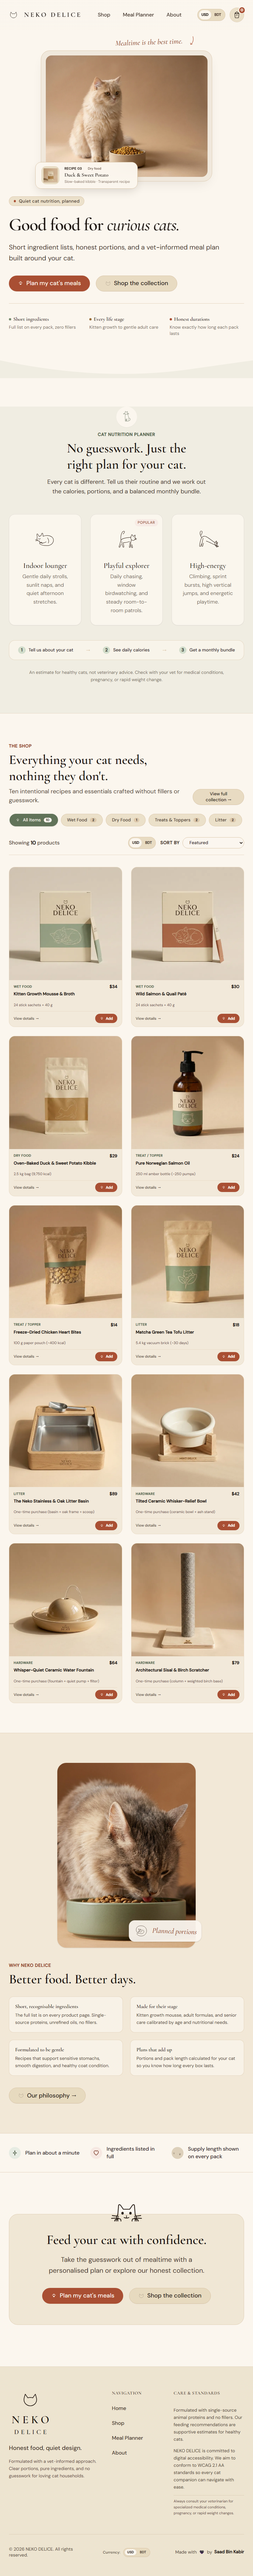
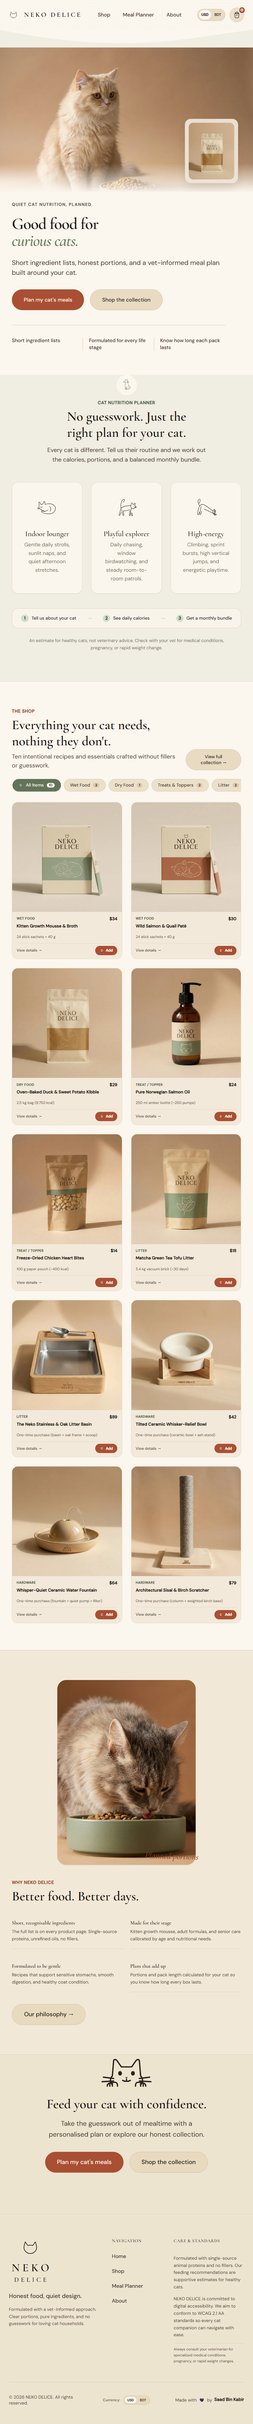
feat: premium hero

Changed region(s): [[0.0, 0.187, 1.0, 0.9974], [0.0, 0.0, 1.0, 0.187], [0.6562, 0.0, 0.7188, 0.0312]]

diff --git a/src/pages/Home.tsx b/src/pages/Home.tsx
@@ -5,7 +5,6 @@ import { Container } from '@/components/ui/Container'
 import { Heading } from '@/components/ui/Heading'
 import { Button } from '@/components/ui/Button'
 import { SiteImage } from '@/components/ui/SiteImage'
-import { ProductImage } from '@/components/ui/ProductImage'
 import { ProductCard } from '@/components/product/ProductCard'
 import { Annotation } from '@/components/ui/Annotation'
 import { Band } from '@/components/ui/Band'
@@ -225,144 +224,117 @@ export function HomePage() {
             ? {
                 src: heroImage.src,
                 srcset: heroImageSrcset,
-                sizes: '(max-width: 768px) 100vw, 50vw',
+                sizes: '(max-width: 1024px) 100vw, 58vw',
               }
             : undefined
         }
       />
 
       {/* 1. HERO SECTION (Real Cat Photography + Editorial Typography + Product Pouch) */}
-      <section id="hero" className="relative pt-8 sm:pt-14 pb-12 sm:pb-20 overflow-hidden bg-cream-50">
-        <Container>
-          <div className="grid grid-cols-1 lg:grid-cols-12 items-center gap-10 lg:gap-14">
-            {/* Left Column: Headlines, CTAs & Pillars (No Reveal wrapping to avoid LCP delay) */}
-            <div className="lg:col-span-7 flex flex-col items-start order-2 lg:order-1">
-              <div className="inline-flex items-center gap-2 px-3 py-1 rounded-full bg-oat-100/70 border border-sand-300/80 text-espresso-800 text-xs font-medium tracking-wide mb-6">
-                <span className="w-1.5 h-1.5 rounded-full bg-terracotta-600" aria-hidden="true" />
-                <span>Quiet cat nutrition, planned</span>
+      <section id="hero" className="relative bg-cream-50 overflow-hidden min-h-[640px] flex flex-col justify-between">
+        {/* Handwritten Annotation in empty space pointing at cat with >=60px arrow */}
+        <div className="hidden lg:block absolute top-16 left-[41%] xl:left-[40%] z-20 pointer-events-none">
+          <Annotation
+            text="Mealtime is the best time."
+            arrow="curve-right"
+            arrowClassName="w-16 h-8"
+            rotate={-2}
+          />
+        </div>
+        {/* Real Cat Photography (LCP) + Overlapping Product Pack */}
+        <div className="relative w-full h-[340px] sm:h-[440px] lg:h-auto lg:absolute lg:top-0 lg:right-0 lg:w-[58%] lg:bottom-0 pointer-events-none overflow-hidden order-1 lg:order-2">
+
+
+          <div className="hero-mask w-full h-full">
+            <img
+              src={heroImage?.src || '/images/site/hero-1024.webp'}
+              srcSet={heroImageSrcset}
+              sizes="(max-width: 1024px) 100vw, 58vw"
+              alt={heroImage?.alt || 'Fluffy cream cat seated calmly beside a low ceramic bowl filled with kibble on a warm neutral studio backdrop.'}
+              fetchPriority="high"
+              width={1200}
+              height={896}
+              className="w-full h-full object-cover object-[70%_25%]"
+            />
+          </div>
+
+          {/* Product pack photo overlapping lower right (tuned with beige token container) */}
+          <div className="absolute right-6 bottom-4 sm:right-10 sm:bottom-6 lg:right-12 lg:bottom-10 xl:right-14 xl:bottom-12 w-28 sm:w-36 lg:w-44 pointer-events-auto">
+            <a
+              href="/product/duck-sweet-potato-kibble"
+              className="block group rounded-2xl bg-[#EDE5D8]/95 p-2 sm:p-2.5 border border-sand-300/80 shadow-[0_14px_30px_-6px_rgba(43,33,26,0.14)] hover:border-terracotta-600/40 hover:shadow-[0_18px_36px_-6px_rgba(43,33,26,0.2)] transition-all duration-300"
+              title="View Duck & Sweet Potato Kibble"
+            >
+              <div className="overflow-hidden rounded-xl aspect-[4/5] bg-[#DDD0BA]/50 flex items-center justify-center">
+                <img
+                  src="/images/products/duck-sweet-potato-kibble/duck-sweet-potato-kibble-hero-640.webp"
+                  alt="Neko Delice Duck & Sweet Potato Kibble pack"
+                  width={320}
+                  height={400}
+                  className="w-full h-full object-cover group-hover:scale-105 transition-transform duration-300"
+                />
               </div>
+            </a>
+          </div>
+        </div>
 
-              <h1 className="font-serif text-4xl sm:text-5xl lg:text-6xl font-semibold tracking-tight text-espresso-950 text-balance leading-[1.1] mb-5">
-                Good food for{' '}
-                <span className="italic font-normal">curious cats.</span>
-              </h1>
+        {/* Content Column: Headlines, CTAs & Proof Row */}
+        <Container className="relative z-10 order-2 lg:order-1 pt-6 pb-12 sm:pb-16 lg:py-24">
+          <div className="max-w-xl lg:max-w-[48%] flex flex-col items-start">
+            <p className="text-[13px] font-semibold uppercase tracking-[0.12em] text-espresso-700/90 mb-5">
+              Quiet cat nutrition, planned
+            </p>
 
-              <p className="text-base sm:text-lg text-espresso-800 leading-relaxed max-w-xl mb-8">
-                Short ingredient lists, honest portions, and a vet-informed meal plan built around your cat.
-              </p>
+            <h1 className="font-serif font-semibold text-espresso-950 tracking-tight leading-[1.02] text-[clamp(2.75rem,6vw,5.25rem)] mb-6">
+              <span className="block">Good food for </span>
+              <span className="block italic font-normal text-[#56744B]">curious cats.</span>
+            </h1>
 
-              <div className="flex flex-wrap items-center gap-4 mb-8">
-                <Button asChild to="/meal-plan" variant="primary" >
-                  Plan my cat's meals
-                </Button>
-                <Button
-                  asChild
-                  to="/#shop"
-                  variant="secondary"
-                  
-                  onClick={(e) => {
-                    e.preventDefault()
-                    const el = document.getElementById('shop') || document.getElementById('collection')
-                    if (el) {
-                      el.scrollIntoView({ behavior: 'smooth' })
-                      window.history.pushState(null, '', '/#shop')
-                    }
-                  }}
-                >
-                  Shop the collection
-                </Button>
-              </div>
+            <p className="text-lg sm:text-[20px] text-espresso-800 leading-[1.5] max-w-xl mb-8">
+              Short ingredient lists, honest portions, and a vet-informed meal plan built around your cat.
+            </p>
 
-              {/* 3 Truthful Brand Pillars */}
-              <div className="grid grid-cols-1 sm:grid-cols-3 gap-4 pt-6 sm:pt-8 border-t border-sand-300/70 w-full">
-                <div className="flex flex-col gap-0.5">
-                  <div className="flex items-center gap-1.5 mb-0.5">
-                    <span className="w-1.5 h-1.5 rounded-full bg-sage-600" aria-hidden="true" />
-                    <span className="font-serif text-sm font-semibold text-espresso-950">Short ingredients</span>
-                  </div>
-                  <span className="text-xs text-espresso-700/80 leading-snug">Full list on every pack, zero fillers</span>
-                </div>
-                <div className="flex flex-col gap-0.5">
-                  <div className="flex items-center gap-1.5 mb-0.5">
-                    <span className="w-1.5 h-1.5 rounded-full bg-ochre-600" aria-hidden="true" />
-                    <span className="font-serif text-sm font-semibold text-espresso-950">Every life stage</span>
-                  </div>
-                  <span className="text-xs text-espresso-700/80 leading-snug">Kitten growth to gentle adult care</span>
-                </div>
-                <div className="flex flex-col gap-0.5">
-                  <div className="flex items-center gap-1.5 mb-0.5">
-                    <span className="w-1.5 h-1.5 rounded-full bg-terracotta-600" aria-hidden="true" />
-                    <span className="font-serif text-sm font-semibold text-espresso-950">Honest durations</span>
-                  </div>
-                  <span className="text-xs text-espresso-700/80 leading-snug">Know exactly how long each pack lasts</span>
-                </div>
-              </div>
+            <div className="flex flex-col sm:flex-row items-stretch sm:items-center gap-4 mb-10 w-full sm:w-auto">
+              <Button asChild to="/meal-plan" variant="primary" className="h-14 px-8 text-[16px] font-medium w-full sm:w-auto">
+                Plan my cat's meals
+              </Button>
+              <Button
+                asChild
+                to="/#shop"
+                variant="secondary"
+                className="h-14 px-8 text-[16px] font-medium w-full sm:w-auto"
+                onClick={(e) => {
+                  e.preventDefault()
+                  const el = document.getElementById('shop') || document.getElementById('collection')
+                  if (el) {
+                    el.scrollIntoView({ behavior: 'smooth' })
+                    window.history.pushState(null, '', '/#shop')
+                  }
+                }}
+              >
+                Shop the collection
+              </Button>
             </div>
 
-            {/* Right Column: Hero Cat Photo + Editorial Recipe Plaque + Annotation */}
-            <div className="lg:col-span-5 relative flex justify-center order-1 lg:order-2">
-              <div className="relative w-full max-w-[520px]">
-                {/* Handwritten Annotation in the margin */}
-                <div className="absolute -top-7 sm:-top-9 right-4 sm:right-10 z-20 pointer-events-none">
-                  <Annotation
-                    text="Mealtime is the best time."
-                    arrow="down"
-                    rotate={-2}
-                  />
+            {/* Proof row: three short statements, 15 px, separated by 1 px vertical dividers, no dots or icons */}
+            <div className="w-full pt-8 border-t border-sand-300/80">
+              <div className="grid grid-cols-1 sm:grid-cols-3 divide-y sm:divide-y-0 sm:divide-x divide-sand-300/80">
+                <div className="py-2.5 sm:py-0 sm:pr-4 text-[15px] font-medium text-espresso-800 leading-snug">
+                  Short ingredient lists
                 </div>
-
-                {/* Gallery Mat Canvas */}
-                <div className="relative rounded-3xl bg-[#F0E8DC] p-2.5 sm:p-3 border border-sand-300/80 shadow-[0_16px_40px_-16px_rgba(43,33,26,0.12)]">
-                  {/* Inner Image Container with natural studio lighting */}
-                  <div className="relative rounded-2xl overflow-hidden bg-oat-100/50 aspect-[4/3]">
-                    <SiteImage
-                      name="hero"
-                      priority={true}
-                      sizes="(max-width: 768px) 100vw, 520px"
-                      className="w-full h-full object-cover"
-                    />
-                  </div>
-
-                  {/* Editorial Recipe Plaque */}
-                  <div className="absolute -bottom-5 left-3 sm:-bottom-5 sm:-left-4 z-20">
-                    <a
-                      href="/product/duck-sweet-potato-kibble"
-                      className="group flex items-center gap-3.5 bg-cream-50/98 backdrop-blur-md px-4 py-2.5 rounded-2xl border border-sand-300 shadow-[0_12px_28px_-6px_rgba(43,33,26,0.14)] hover:border-terracotta-600/40 hover:shadow-[0_16px_34px_-6px_rgba(43,33,26,0.18)] transition-all duration-200"
-                      
-                    >
-                      <div className="w-12 h-12 rounded-xl bg-oat-100/80 p-1 flex-shrink-0 border border-sand-300/50 flex items-center justify-center overflow-hidden">
-                        <ProductImage
-                          slug="duck-sweet-potato-kibble"
-                          imageRole="hero"
-                          sizes="48px"
-                          className="w-full h-full object-contain group-hover:scale-105 transition-transform duration-200"
-                        />
-                      </div>
-                      <div className="flex flex-col pr-1 text-left">
-                        <div className="flex items-center gap-1.5">
-                          <span className="text-[10px] uppercase tracking-wider font-semibold text-ochre-700">
-                            Recipe 03
-                          </span>
-                          <span className="w-1 h-1 rounded-full bg-sand-400" aria-hidden="true" />
-                          <span className="text-[10px] text-espresso-600 font-medium">Dry food</span>
-                        </div>
-                        <span className="font-serif text-sm font-semibold text-espresso-950 group-hover:text-terracotta-700 transition-colors">
-                          Duck & Sweet Potato
-                        </span>
-                        <span className="text-[11px] text-espresso-600/80">
-                          Slow-baked kibble · Transparent recipe
-                        </span>
-                      </div>
-                    </a>
-                  </div>
+                <div className="py-2.5 sm:py-0 sm:px-4 text-[15px] font-medium text-espresso-800 leading-snug">
+                  Formulated for every life stage
+                </div>
+                <div className="py-2.5 sm:py-0 sm:pl-4 text-[15px] font-medium text-espresso-800 leading-snug">
+                  Know how long each pack lasts
                 </div>
               </div>
             </div>
           </div>
         </Container>
 
-        {/* Soft Wave Divider leading into the Sage Planner Band */}
-        <div className="mt-12 sm:mt-16 w-full -mb-1">
+        {/* Soft Wave Divider leading seamlessly into the Sage Planner Band */}
+        <div className="w-full -mb-px z-10">
           <Wave fill="color-mix(in srgb, #9DAA8B 12%, #FBF6EE)" />
         </div>
       </section>

diff --git a/src/components/ui/Annotation.tsx b/src/components/ui/Annotation.tsx
@@ -4,6 +4,7 @@ import { ScribbleArrow } from '@/components/doodles/ScribbleArrow'
 export interface AnnotationProps extends React.HTMLAttributes<HTMLDivElement> {
   text: string
   arrow?: 'curve-left' | 'curve-right' | 'down' | 'up' | boolean
+  arrowClassName?: string
   rotate?: number
   hideOnMobile?: boolean
   className?: string
@@ -16,6 +17,7 @@ export interface AnnotationProps extends React.HTMLAttributes<HTMLDivElement> {
 export function Annotation({
   text,
   arrow = false,
+  arrowClassName = 'w-8 h-6',
   rotate = -3,
   hideOnMobile = true,
   className = '',
@@ -44,13 +46,13 @@ export function Annotation({
       }}
       {...props}
     >
-      <span className="font-note text-lg md:text-xl text-terracotta-700 whitespace-nowrap leading-tight">
+      <span className="font-note text-2xl text-terracotta-700 whitespace-nowrap leading-tight">
         {text}
       </span>
       {arrowVariant ? (
         <ScribbleArrow
           variant={arrowVariant}
-          className="w-8 h-6 text-terracotta-600 shrink-0"
+          className={`text-terracotta-600 shrink-0 ${arrowClassName}`}
         />
       ) : null}
     </div>

diff --git a/src/index.css b/src/index.css
@@ -382,3 +382,16 @@ input[type="range"]:active::-moz-range-thumb {
 }
 
 
+
+/* Hero photo fade mask (bottom on mobile, left on desktop) */
+.hero-mask {
+  mask-image: linear-gradient(to bottom, #000 80%, transparent 100%);
+  -webkit-mask-image: linear-gradient(to bottom, #000 80%, transparent 100%);
+}
+
+@media (min-width: 1024px) {
+  .hero-mask {
+    mask-image: linear-gradient(to right, transparent 0%, #000 22%);
+    -webkit-mask-image: linear-gradient(to right, transparent 0%, #000 22%);
+  }
+}
